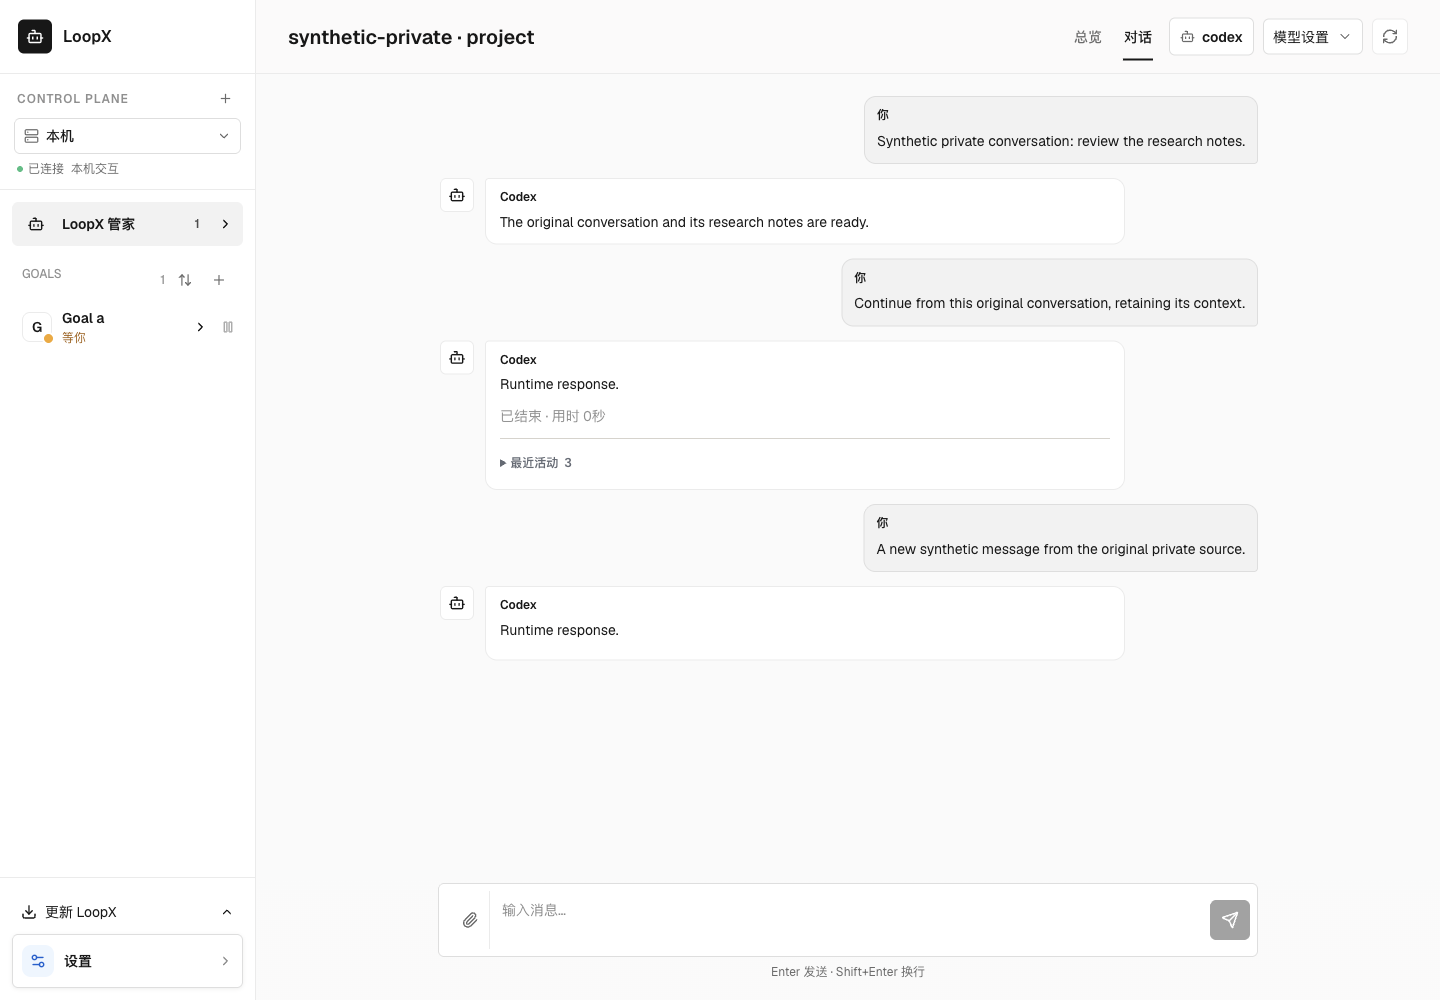
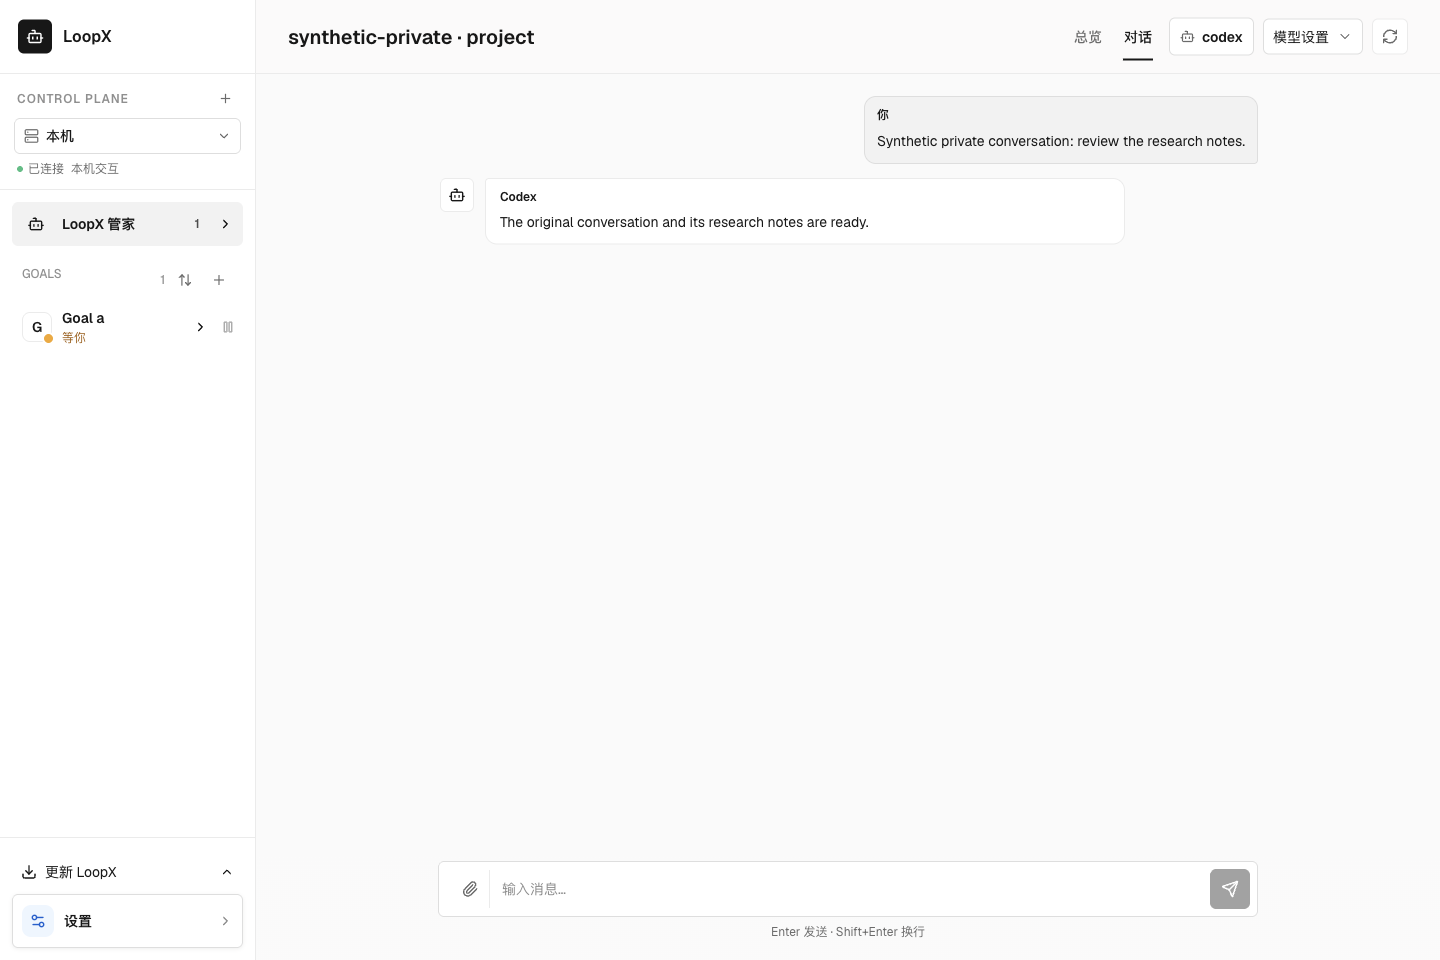
fix(chat): isolate malformed workspace catalog responses

diff --git a/apps/presentation/dashboard/smoke/bound-conversation-smoke.ts b/apps/presentation/dashboard/smoke/bound-conversation-smoke.ts
@@ -5,7 +5,7 @@ import { resolve } from "node:path";
 import { createInterface } from "node:readline";
 import { resolveTestPython } from "../../../../scripts/test-python.mjs";
 import { acceptChatTurn, conversationContextKey, conversationContextOfKey, conversationSupportsStatusProjection, createChatSession,
-  discoverBoundChatSession, fetchChatHistory, resolveBoundChatSession } from "../src/data/chat";
+  discoverBoundChatSession, fetchChatHistory, fetchChatProjects, resolveBoundChatSession } from "../src/data/chat";
 
 // Invariant: continuation and refreshed history retain the verified original
 // Session. An absent/ignored selector, changed source or closed Session cannot
@@ -71,6 +71,16 @@ try {
   assert.equal((await next()).source_verified, true);
   assert.equal((await resolveBoundChatSession(target)).session_id, sessionId);
   const routedFetch = globalThis.fetch;
+  const projects = await fetchChatProjects();
+  assert.ok(projects.projects.length > 0, "The production workspace response is accepted");
+  for (const malformed of [{ok: true}, {ok: true, projects: null},
+    {ok: true, projects: [{project_ref: "workspace", title: "Workspace", grant: "unexpected"}]}]) {
+    globalThis.fetch = async () => new Response(JSON.stringify(malformed));
+    await assert.rejects(() => fetchChatProjects(), /workspace list could not be read/);
+  }
+  globalThis.fetch = async () => new Response(JSON.stringify({ok: true, projects: []}));
+  assert.deepEqual(await fetchChatProjects(), {ok: true, projects: []}, "An observed empty list remains valid");
+  globalThis.fetch = routedFetch;
   for (const echo of [undefined, "f".repeat(24)]) {
     globalThis.fetch = async () => new Response(JSON.stringify({ ok: true, sessions: history.sessions, conversation_binding_id: echo }));
     await assert.rejects(() => resolveBoundChatSession(target), /cannot verify/);

diff --git a/apps/presentation/dashboard/src/data/chat.ts b/apps/presentation/dashboard/src/data/chat.ts
@@ -818,8 +818,19 @@ export type ChatSessionSummary = {
 
 export type { ChatProject };
 
+const chatProjectsSchema = z.object({
+  ok: z.literal(true),
+  projects: z.array(z.object({
+    project_ref: z.string().min(1), title: z.string(),
+    grant: z.enum(["workspace_read", "workspace_write"]),
+    goal_workspace_ref: z.string().optional(),
+  })),
+});
+
 export async function fetchChatProjects(signal?: AbortSignal) {
-  return requestJson<{ok: true; projects: ChatProject[]}>("/api/chat/projects", {signal});
+  const parsed = chatProjectsSchema.safeParse(await requestJson<unknown>("/api/chat/projects", {signal}));
+  if (!parsed.success) throw new Error("The workspace list could not be read. Refresh to retry.");
+  return parsed.data;
 }
 
 /** ``chat_store`` Session modes; an omitted mode is a managed runtime Session. */
